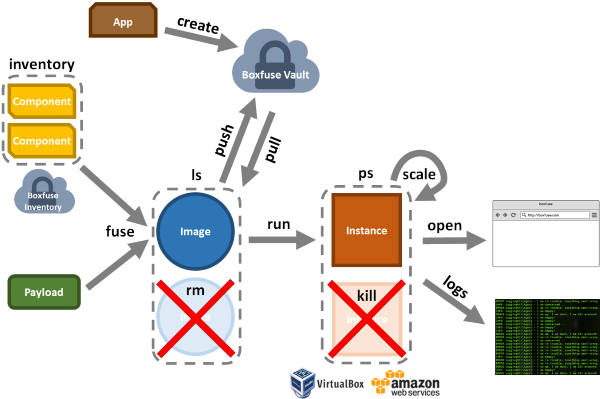
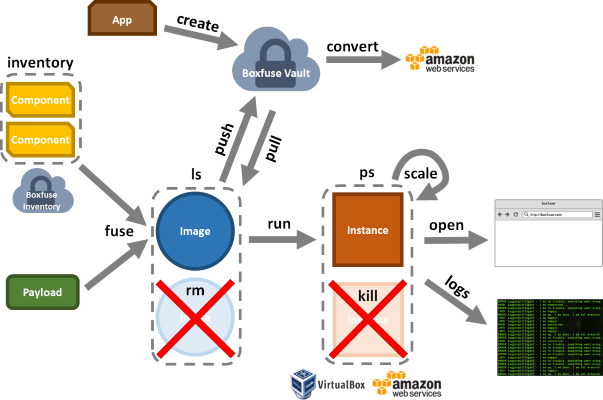
Updated for 1.9.0

diff --git a/docs/maven/convert.html b/docs/maven/convert.html
@@ -1,19 +1,19 @@
 ---
 layout: maven
-pill: push
+pill: convert
 ---
-<img src="/assets/img/commands/push.png" alt="push">
+<img src="/assets/img/commands/convert.png" alt="convert">
 
-<p class="doc-section">boxfuse:push</p>
+<p class="doc-section">boxfuse:convert</p>
 
-<p>Pushes this <em>Image</em> to the <em>Boxfuse Vault</em>.</p>
+<p>Converts this <em>Image</em> from the <em>Boxfuse Vault</em> into an AWS AMI..</p>
 
-<p><strong>Usage: </strong> mvn boxfuse:push -Dboxfuse.image=<em>image</em></p>
+<p><strong>Usage: </strong> mvn boxfuse:convert -Dboxfuse.image=<em>image</em></p>
 
-<pre class="console">&gt; mvn boxfuse:push -Dboxfuse.image=hello:1.0
+<pre class="console">&gt; mvn boxfuse:convert -Dboxfuse.image=hello:1.0
 
-Pushing axelfontaine/hello:1.0 ...
-Verifying axelfontaine/hello:1.0 ...</pre>
+Waiting for AWS to create an AMI for axelfontaine/hello:1.0 in eu-central-1 (this may take up to 50 seconds) ...
+AMI created in 00:12.603s -> ami-74d4d369</pre>
 
 <p><br/><strong>Properties:</strong></p>
 
@@ -67,5 +67,5 @@ Verifying axelfontaine/hello:1.0 ...</pre>
 &lt;/configuration&gt;</pre>
 
 <p class="next-steps">
-    <a class="btn btn-primary" href="/docs/maven/convert.html">convert <i class="fa fa-arrow-right"></i></a>
+    <a class="btn btn-primary" href="/docs/maven/pull.html">pull <i class="fa fa-arrow-right"></i></a>
 </p>

diff --git a/docs/gradle/convert.html b/docs/gradle/convert.html
@@ -1,19 +1,19 @@
 ---
 layout: gradle
-pill: push
+pill: convert
 ---
-<img src="/assets/img/commands/push.png" alt="push">
+<img src="/assets/img/commands/convert.png" alt="convert">
 
-<p class="doc-section">boxfusePush</p>
+<p class="doc-section">boxfuseConvert</p>
 
-<p>Pushes this <em>Image</em> to the <em>Boxfuse Vault</em>.</p>
+<p>Convert this <em>Image</em> from the <em>Boxfuse Vault</em> into an AWS AMI.</p>
 
-<p><strong>Usage: </strong> gradle boxfusePush -Dboxfuse.image=<em>image</em></p>
+<p><strong>Usage: </strong> gradle boxfuseConvert -Dboxfuse.image=<em>image</em></p>
 
-<pre class="console">&gt; gradle boxfusePush -Dboxfuse.image=hello:1.0
+<pre class="console">&gt; gradle boxfuseConvert -Dboxfuse.image=hello:1.0
 
-Pushing axelfontaine/hello:1.0 ...
-Verifying axelfontaine/hello:1.0 ...</pre>
+Waiting for AWS to create an AMI for axelfontaine/hello:1.0 in eu-central-1 (this may take up to 50 seconds) ...
+AMI created in 00:12.603s -> ami-74d4d369</pre>
 
 <p><br/><strong>Properties:</strong></p>
 
@@ -57,5 +57,5 @@ Verifying axelfontaine/hello:1.0 ...</pre>
 }</pre>
 
 <p class="next-steps">
-    <a class="btn btn-primary" href="/docs/gradle/convert.html">convert <i class="fa fa-arrow-right"></i></a>
+    <a class="btn btn-primary" href="/docs/gradle/pull.html">pull <i class="fa fa-arrow-right"></i></a>
 </p>

diff --git a/_posts_future/2015-08-14-ami.html b/_posts_future/2015-08-14-ami.html
@@ -1,0 +1,23 @@
+---
+layout: blog
+subtitle: "In AMIs we trust"
+permalink: /blog/ami.html
+---
+<div>
+    <p>This year has seen plenty of Boxfuse <a href="/events.html">events</a> and we have plenty more coming up!</p>
+
+
+    <h2 class="blog-post-section">Try it now</h2>
+    <p>Have fun! And if you haven't already,
+        <a href="https://console.boxfuse.com"><strong>sign up for your
+            Boxfuse account</strong></a> now. <a href="https://boxfuse.com"><strong>Boxfuse</strong></a> intelligently
+        analyses your application and
+        <strong>generates minimal images in seconds</strong>.
+        There is no general purpose operating system and no tedious provisioning. Boxfuse images are lean, secure and
+        efficient. You
+        can run them on VirtualBox for development and deploy them unchanged and with <strong>zero downtime on
+            AWS</strong> for test and
+        production. All you need is a GitHub user
+        and you'll be up and running in no time. The <a href="/pricing.html">Boxfuse free plan</a> aligns
+        perfectly with the AWS free tier, so you can deploy your application to EC2 completely free.</p>
+</div>

diff --git a/_layouts/commandline.html b/_layouts/commandline.html
@@ -12,6 +12,7 @@ subtitle: 'Command-line client'
         <li role="presentation" {% if page.pill == 'fuse' %} class="active" {% endif %}><a href="/docs/commandline/fuse.html">fuse</a></li>
         <li role="presentation" {% if page.pill == 'ls' %} class="active" {% endif %}><a href="/docs/commandline/ls.html">ls</a></li>
         <li role="presentation" {% if page.pill == 'push' %} class="active" {% endif %}><a href="/docs/commandline/push.html">push</a></li>
+        <li role="presentation" {% if page.pill == 'convert' %} class="active" {% endif %}><a href="/docs/commandline/convert.html">convert</a></li>
         <li role="presentation" {% if page.pill == 'pull' %} class="active" {% endif %}><a href="/docs/commandline/pull.html">pull</a></li>
         <li role="presentation" {% if page.pill == 'rm' %} class="active" {% endif %}><a href="/docs/commandline/rm.html">rm</a></li>
         <li role="presentation" {% if page.pill == 'run' %} class="active" {% endif %}><a href="/docs/commandline/run.html">run</a></li>

diff --git a/_layouts/commands.html b/_layouts/commands.html
@@ -12,6 +12,7 @@ subtitle: 'Commands'
         <li role="presentation" {% if page.pill == 'fuse' %} class="active" {% endif %}><a href="/docs/commands/fuse.html">fuse</a></li>
         <li role="presentation" {% if page.pill == 'ls' %} class="active" {% endif %}><a href="/docs/commands/ls.html">ls</a></li>
         <li role="presentation" {% if page.pill == 'push' %} class="active" {% endif %}><a href="/docs/commands/push.html">push</a></li>
+        <li role="presentation" {% if page.pill == 'convert' %} class="active" {% endif %}><a href="/docs/commands/convert.html">convert</a></li>
         <li role="presentation" {% if page.pill == 'pull' %} class="active" {% endif %}><a href="/docs/commands/pull.html">pull</a></li>
         <li role="presentation" {% if page.pill == 'rm' %} class="active" {% endif %}><a href="/docs/commands/rm.html">rm</a></li>
         <li role="presentation" {% if page.pill == 'run' %} class="active" {% endif %}><a href="/docs/commands/run.html">run</a></li>

diff --git a/_layouts/gradle.html b/_layouts/gradle.html
@@ -12,6 +12,7 @@ subtitle: 'Gradle plugin'
         <li role="presentation" {% if page.pill == 'fuse' %} class="active" {% endif %}><a href="/docs/gradle/fuse.html">fuse</a></li>
         <li role="presentation" {% if page.pill == 'ls' %} class="active" {% endif %}><a href="/docs/gradle/ls.html">ls</a></li>
         <li role="presentation" {% if page.pill == 'push' %} class="active" {% endif %}><a href="/docs/gradle/push.html">push</a></li>
+        <li role="presentation" {% if page.pill == 'convert' %} class="active" {% endif %}><a href="/docs/gradle/convert.html">convert</a></li>
         <li role="presentation" {% if page.pill == 'pull' %} class="active" {% endif %}><a href="/docs/gradle/pull.html">pull</a></li>
         <li role="presentation" {% if page.pill == 'rm' %} class="active" {% endif %}><a href="/docs/gradle/rm.html">rm</a></li>
         <li role="presentation" {% if page.pill == 'run' %} class="active" {% endif %}><a href="/docs/gradle/run.html">run</a></li>

diff --git a/_layouts/maven.html b/_layouts/maven.html
@@ -12,6 +12,7 @@ subtitle: 'Maven plugin'
         <li role="presentation" {% if page.pill == 'fuse' %} class="active" {% endif %}><a href="/docs/maven/fuse.html">fuse</a></li>
         <li role="presentation" {% if page.pill == 'ls' %} class="active" {% endif %}><a href="/docs/maven/ls.html">ls</a></li>
         <li role="presentation" {% if page.pill == 'push' %} class="active" {% endif %}><a href="/docs/maven/push.html">push</a></li>
+        <li role="presentation" {% if page.pill == 'convert' %} class="active" {% endif %}><a href="/docs/maven/convert.html">convert</a></li>
         <li role="presentation" {% if page.pill == 'pull' %} class="active" {% endif %}><a href="/docs/maven/pull.html">pull</a></li>
         <li role="presentation" {% if page.pill == 'rm' %} class="active" {% endif %}><a href="/docs/maven/rm.html">rm</a></li>
         <li role="presentation" {% if page.pill == 'run' %} class="active" {% endif %}><a href="/docs/maven/run.html">run</a></li>

diff --git a/docs/commandline/convert.html b/docs/commandline/convert.html
@@ -1,0 +1,20 @@
+---
+layout: commandline
+pill: convert
+---
+<img src="/assets/img/commands/convert.png" alt="convert">
+
+<p class="doc-section">convert</p>
+
+<p>Converts this <em>Image</em> from the <em>Boxfuse Vault</em> into an AWS AMI..</p>
+
+<p><strong>Usage: </strong> boxfuse convert <em>image</em></p>
+
+<pre class="console">&gt; boxfuse convert hello:1.0
+
+Waiting for AWS to create an AMI for axelfontaine/hello:1.0 in eu-central-1 (this may take up to 50 seconds) ...
+AMI created in 00:12.603s -> ami-74d4d369</pre>
+
+<p class="next-steps">
+    <a class="btn btn-primary" href="/docs/commandline/pull.html">pull <i class="fa fa-arrow-right"></i></a>
+</p>

diff --git a/docs/commands/push.html b/docs/commands/push.html
@@ -9,5 +9,5 @@ pill: push
 <p>If you have reached the maximum number of images for your plan, Boxfuse will automatically purge the least recently used ones from the vault to make room.</p>
 
 <p class="next-steps">
-    <a class="btn btn-primary" href="/docs/commands/pull.html">pull <i class="fa fa-arrow-right"></i></a>
+    <a class="btn btn-primary" href="/docs/commands/convert.html">convert <i class="fa fa-arrow-right"></i></a>
 </p>

diff --git a/docs/commands/index.html b/docs/commands/index.html
@@ -8,6 +8,7 @@ pill: 'Overview'
         <a href="/docs/commands/fuse.html">fuse</a>,
         <a href="/docs/commands/ls.html">ls</a>,
         <a href="/docs/commands/push.html">push</a>,
+        <a href="/docs/commands/convert.html">convert</a>,
         <a href="/docs/commands/pull.html">pull</a>,
         <a href="/docs/commands/rm.html">rm</a>,
         <a href="/docs/commands/run.html">run</a>,

diff --git a/docs/releasenotes.html b/docs/releasenotes.html
@@ -6,6 +6,12 @@ subtitle: 'Release Notes'
 <div id="faq">
     <p class="doc-title">Release Notes for the Boxfuse Client</p>
 
+    <p class="doc-section">Version 1.9.0 (2015-08-14)</p>
+
+    <ul>
+        <li>Added convert command for separate image to AMI conversion</li>
+    </ul>
+
     <p class="doc-section">Version 1.8.10 (2015-08-12)</p>
 
     <ul>

diff --git a/docs/commands/convert.html b/docs/commands/convert.html
@@ -1,0 +1,11 @@
+---
+layout: commands
+pill: convert
+---
+<p>Convert this <em>Image</em> from the <em>Boxfuse Vault</em> into an AWS AMI.</p>
+<img src="/assets/img/commands/convert.png" alt="convert">
+<p>&nbsp;</p>
+
+<p class="next-steps">
+    <a class="btn btn-primary" href="/docs/commands/pull.html">pull <i class="fa fa-arrow-right"></i></a>
+</p>
